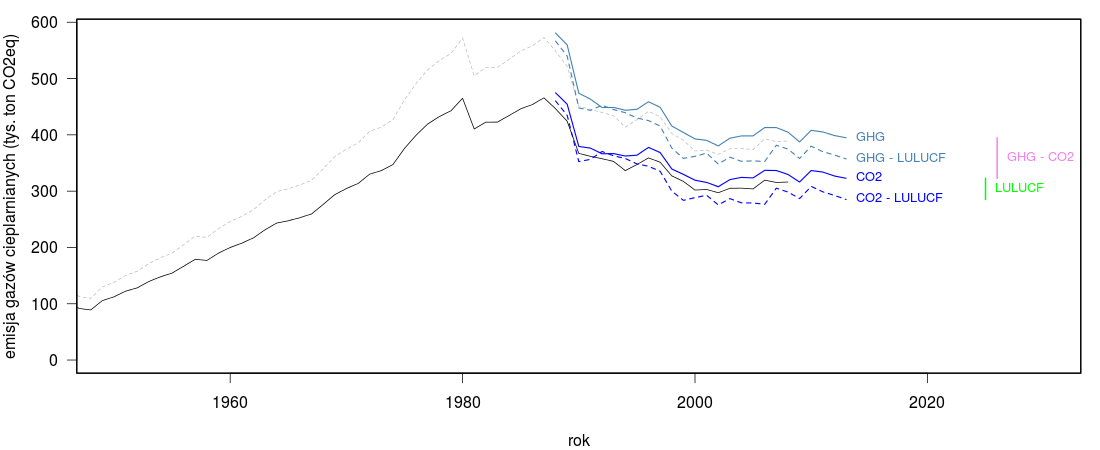
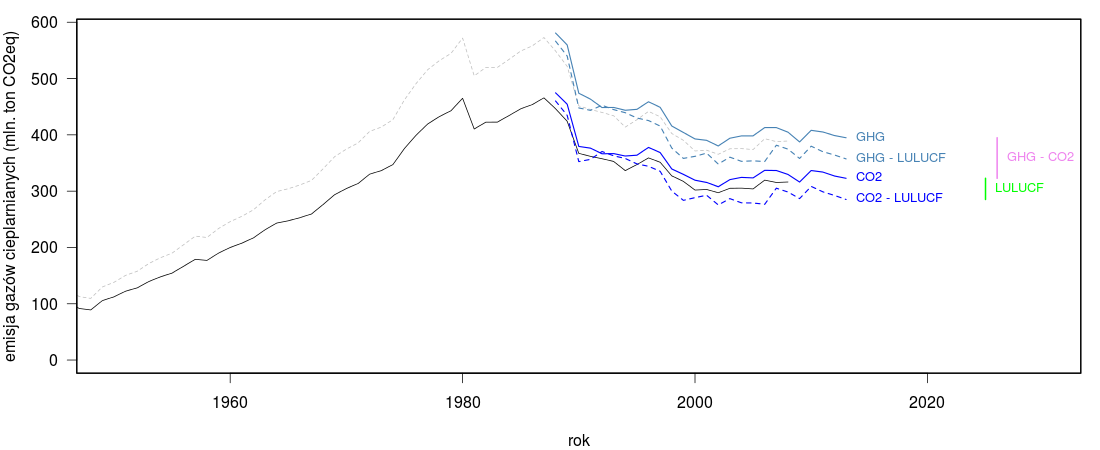
k > M

Changed region(s): [[0.0, 0.0622, 0.0309, 0.8089]]

diff --git a/articles/15/porozumienie-paryskie/index.html b/articles/15/porozumienie-paryskie/index.html
@@ -166,7 +166,7 @@ d) zbilansowanie antropogenicznej emisji innych niż CO<sub>2</sub> gazów ciepl
 e) co oznacza, że “neutralność węglowa” będzie musiała zostać osiągnięta wcześniej, niż cel porozumienia paryskiego;<br />
 f) co oznacza również, że “neutralność węglowa” energetyki będzie musiała zostać osiągnięta wcześniej, niż wszystkich emitentów CO<sub>2</sub>.</p>
 
-<p>Przykładowo, emisja gazów cieplarnianych przez Polskę w roku 2013 wynosiła, <a href="http://unfccc.int/national_reports/annex_i_ghg_inventories/national_inventories_submissions/items/8812.php">według najświeższego inwentarza emisji KOBiZE</a>, 395 tysięcy ton CO<sub>2</sub>, wyłączając leśnictwo i zarządzając gruntami. Emisja samego CO<sub>2</sub> wynosiła 323 tys. ton CO<sub>2</sub>eq wyłączając leśnictwo i zarządzanie gruntami, oraz 285 tys. ton CO<sub>2</sub> z uwzględnieniem tych kategorii. Gdybyśmy chcieli osiągnąć równowagę o której mówi porozumienie paryskie, musielibyśmy zmniejszyć emisję CO<sub>2</sub> do zera i <em>dwukrotnie zwiększyć</em> pochłanianie (obecnie 38 tysięcy ton CO<sub>2</sub>eq), by zbilansować 72 tysiące ton CO<sub>2</sub>eq z emisji gazów cieplarnianych innych niż CO<sub>2</sub>. Zbilansowanie emisji <em>wszystkich</em> gazów cieplarnianych wymagałoby <em>dziesięciokrotnego</em> zwiększenia pochłaniania przez lasy i gospodarkę gruntami. <em>Good luck with that</em>.</p>
+<p>Przykładowo, emisja gazów cieplarnianych przez Polskę w roku 2013 wynosiła, <a href="http://unfccc.int/national_reports/annex_i_ghg_inventories/national_inventories_submissions/items/8812.php">według najświeższego inwentarza emisji KOBiZE</a>, 395 milionów ton CO<sub>2</sub>, wyłączając leśnictwo i zarządzając gruntami. Emisja samego CO<sub>2</sub> wynosiła 323 mln. ton CO<sub>2</sub>eq wyłączając leśnictwo i zarządzanie gruntami, oraz 285 mln. ton CO<sub>2</sub> z uwzględnieniem tych kategorii. Gdybyśmy chcieli osiągnąć równowagę o której mówi porozumienie paryskie, musielibyśmy zmniejszyć emisję CO<sub>2</sub> do zera i <em>dwukrotnie zwiększyć</em> pochłanianie (obecnie 38 mln. ton CO<sub>2</sub>eq), by zbilansować 72 mln. ton CO<sub>2</sub>eq z emisji gazów cieplarnianych innych niż CO<sub>2</sub>. Zbilansowanie emisji <em>wszystkich</em> gazów cieplarnianych wymagałoby <em>dziesięciokrotnego</em> zwiększenia pochłaniania przez lasy i gospodarkę gruntami. <em>Good luck with that</em>.</p>
 
 <div><img class="fullwidth" src="/assets/img/poland_emissions.png" /></div>
 <p><span class="marginnote">Emisje wszystkich gazów cieplarnianych, samego dwutlenku węgla oraz udział emisji z leśnictwa i gospodarki gruntami (LULUCF). Dane 1988-2013 pochodzą z rejestru KOBiZE, szacunki historyczne według CDIAC (kolor czarny i szary przerywany, przeskalowane według zależności z 1988-2013).</span></p>
